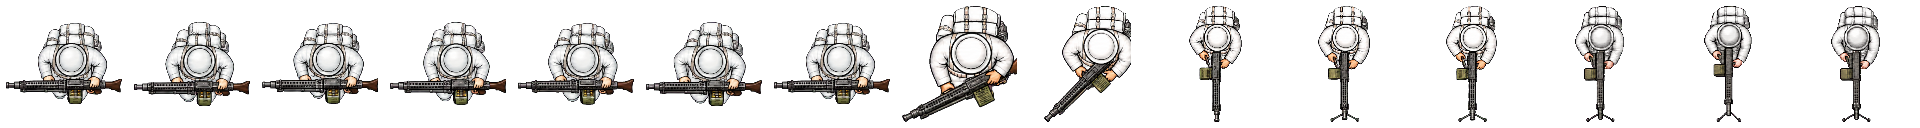
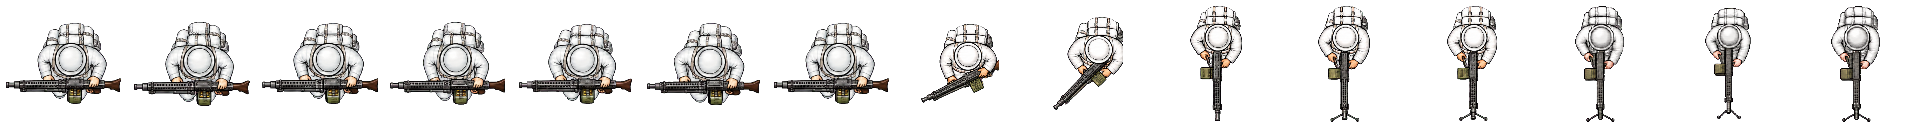
Stabilize machine gunner sprite packing
Use one packing scale per authored pose sheet so the gunner does not resize as the weapon rotates. Resample color with alpha-aware filtering, refresh the icon crop, and lock the resulting frame bounds in asset contracts.

diff --git a/client/src/renderer/rigs/machine_gunner_png_strip.js b/client/src/renderer/rigs/machine_gunner_png_strip.js
@@ -17,7 +17,7 @@ export const MACHINE_GUNNER_PNG_FRAME_STRIP = deepFreeze({
   iconVisibleBounds: {
     x: 6,
     y: 23,
-    w: 116,
+    w: 115,
     h: 81,
   },
   movementFrames: [0, 1, 2, 3, 4, 5],

diff --git a/docs/design/raster-unit-art-handoff.md b/docs/design/raster-unit-art-handoff.md
@@ -359,9 +359,10 @@ cheap checks before any generated atlas can be enabled.
   still need another art pass, and the current runtime has no firing/recoil frame.
 - `machine-gunner-pass-01`: active experiment using the Rifleman whole-frame white-source rule.
   Carry, setup/deploy, and recoil sheets are generated on magenta, chroma-keyed once, and their
-  resulting RGBA pixels are resampled together into the 15-frame 128×128 runtime strip. No legacy
-  green art, transferred color guide, or independently authored silhouette participates in the
-  build. The client applies the shared `team-light` tint and 70% brightness target.
+  resulting RGBA pixels are alpha-filtered into the 15-frame 128×128 runtime strip. Each authored
+  pose sheet uses one packing scale so the gunner keeps a stable size while the weapon rotates. No
+  legacy green art, transferred color guide, or independently authored silhouette participates in
+  the build. The client applies the shared `team-light` tint and 70% brightness target.
 - `mortar-png-pass-01`: active experiment. Generated as a three-cell M2 4.2-inch-inspired wheeled
   mortar sheet: assembled reference, carriage/frame/wheels component, and separate tube component.
   The checked-in alpha source is routed through `mortar_team_png_atlas.js`; the carriage and tube

diff --git a/client/assets/rigs/machine-gunner-pass-01/metadata/notes.md b/client/assets/rigs/machine-gunner-pass-01/metadata/notes.md
@@ -5,8 +5,10 @@ the same generated artwork. Carry, deployment, and firing sheets use a magenta c
 their `*-alpha.png` counterparts are the only inputs to the runtime-strip builder.
 
 `scripts/art/machine-gunner-white-pipeline.mjs` splits those sheets into frames, keeps the complete
-connected character in each cell, fits it within six pixels of a 128×128 frame, and resamples RGBA
-together. It does not consult older green art, transfer masks, color guides, or compact silhouettes.
+connected character in each cell, and uses one scale for each authored pose sheet so the character
+does not shrink as the weapon rotates. The largest pose in each group fits within six pixels of a
+128×128 frame. Color is resampled with alpha-aware filtering to preserve clean transparent edges.
+The pipeline does not consult older green art, transfer masks, color guides, or compact silhouettes.
 
 Frames 0–5 are carry movement, frame 6 repeats the first carry pose, frames 7–11 deploy, and frames
 12–14 fire. The client applies the shared `team-light` tint and 70% target brightness used by the
